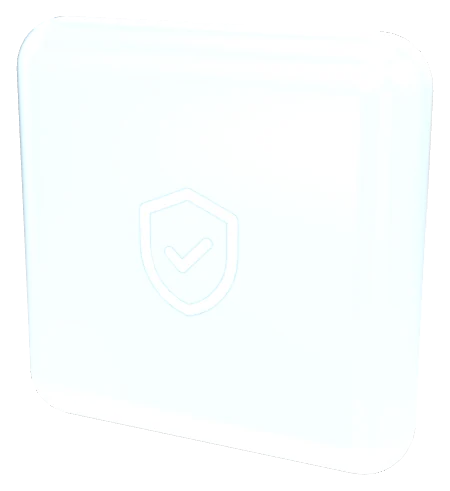
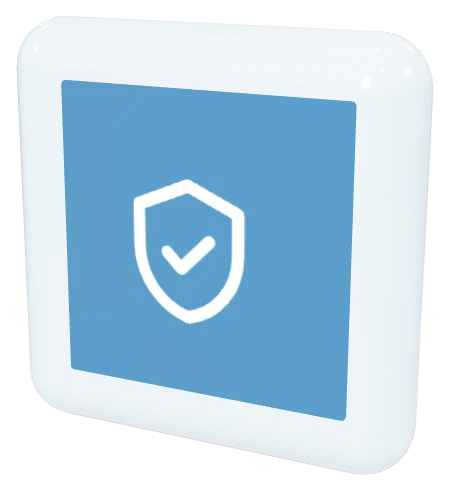
Phase 5: 3D render library in public/3d
scripts/render-3d.mjs drives /dev/render to render every named scene
(src/components/three/scenes.ts) as transparent WebP at 2x: the hero
poster, six products, eight glass icon tiles, the glass bar-chart
cluster, a small platform scene per page banner (about, services,
products, clients, contact, 404) and the CTA cluster. Render3D shows
them as images with pointer tilt and an optional float, so only the
hero runs WebGL.

diff --git a/src/components/three/scenes.ts b/src/components/three/scenes.ts
@@ -37,7 +37,8 @@ function miniStage(m: Materials, shared: Shared, items: [ProductName, number, nu
   const group = new THREE.Group();
   const platform = buildPlatform(m, shared, 2.4);
   group.add(platform.group);
-  for (const [name, x, z, plinthH, scale] of items) {
+  for (const [name, x, z, plinthH, s] of items) {
+    const scale = s * 1.45;
     const plinth = buildPlinth(m, 1.25 * scale + 0.2, 1.1 * scale + 0.2, plinthH);
     plinth.group.position.set(x, PLATFORM_TOP, z);
     const model = buildProduct(name, m);
@@ -51,7 +52,7 @@ function miniStage(m: Materials, shared: Shared, items: [ProductName, number, nu
 
 function withTiles(group: THREE.Group, m: Materials, tiles: [IconKey, number, number, number, boolean?][]) {
   for (const [icon, x, y, z, navy] of tiles) {
-    const tile = buildTile(m, icon, navy ? "navy" : "frost", 0.9);
+    const tile = buildTile(m, icon, navy ? "navy" : "frost", 1.15);
     tile.position.set(x, y, z);
     tile.rotation.set(0.2, x > 0 ? -0.45 : 0.45, x > 0 ? 0.08 : -0.08);
     group.add(tile);
@@ -96,7 +97,7 @@ export function buildNamedScene(name: string, m: Materials, shared: Shared): THR
   }
   switch (name) {
     case "banner-about":
-      return withTiles(miniStage(m, shared, [["gear", -0.7, -0.3, 0.45, 0.8], ["rack", 0.8, -0.5, 0.25, 0.75]]), m, [["shield", -2.4, 2.4, 0.6]]);
+      return withTiles(miniStage(m, shared, [["gear", -0.85, -0.2, 0.45, 0.75], ["rack", 0.9, -0.5, 0.25, 0.7]]), m, [["shield", -2.4, 2.4, 0.6]]);
     case "banner-services":
       return withTiles(miniStage(m, shared, [["laptop", -0.8, 0.5, 0.3, 0.65], ["cctv", 0.9, 0.2, 0.55, 0.7], ["gear", 0.1, -0.9, 0.2, 0.6]]), m, [["wrench", 2.5, 2.4, -0.2, true]]);
     case "banner-products":
@@ -105,12 +106,8 @@ export function buildNamedScene(name: string, m: Materials, shared: Shared): THR
       return withTiles(miniStage(m, shared, [["chair", -0.6, -0.2, 0.35, 0.75], ["laptop", 0.9, 0.5, 0.25, 0.6]]), m, [["network", 2.4, 2.5, -0.3, true], ["shield", -2.4, 2.2, 0.4]]);
     case "banner-contact":
       return withTiles(miniStage(m, shared, [["laptop", -0.4, 0.2, 0.35, 0.75]]), m, [["network", 2.0, 2.2, 0, true], ["camera", -2.1, 2.5, -0.2]]);
-    case "banner-404": {
-      const g = miniStage(m, shared, []);
-      const s = buildSphere(m, 0.7);
-      s.position.set(0, PLATFORM_TOP + 0.9, 0);
-      return withTiles(g.add(s), m, [["gear", 2.0, 2.4, -0.2, true], ["wrench", -2.0, 2.0, 0.3]]);
-    }
+    case "banner-404":
+      return withTiles(miniStage(m, shared, [["gear", 0, -0.2, 0.3, 0.9]]), m, [["wrench", 2.2, 2.6, -0.2, true], ["shield", -2.2, 2.2, 0.3]]);
   }
   throw new Error(`Unknown scene: ${name}`);
 }

diff --git a/src/components/three/render-3d.tsx b/src/components/three/render-3d.tsx
@@ -1,0 +1,53 @@
+"use client";
+
+import Image from "next/image";
+import { useEffect, useRef } from "react";
+import { bindTilt } from "@/lib/motion";
+import { cn } from "@/lib/utils";
+import { RENDERS, type RenderName } from "./renders";
+
+/**
+ * One of the offline 3D renders in public/3d/ (scripts/render-3d.mjs), shown
+ * as an image: it tilts toward the pointer (fine pointers) and can float.
+ * Only the hero runs live WebGL, so each page has at most one context.
+ */
+export function Render3D({
+  name,
+  alt = "",
+  sizes = "(max-width: 1024px) 80vw, 40vw",
+  float = false,
+  tilt = 8,
+  priority = false,
+  className,
+  imgClassName,
+}: {
+  /** A render in public/3d/, e.g. "banner-about". */
+  name: RenderName;
+  alt?: string;
+  sizes?: string;
+  float?: boolean;
+  tilt?: number;
+  priority?: boolean;
+  className?: string;
+  imgClassName?: string;
+}) {
+  const ref = useRef<HTMLDivElement>(null);
+  const [width, height] = RENDERS[name];
+  useEffect(() => (ref.current && tilt > 0 ? bindTilt(ref.current, tilt) : undefined), [tilt]);
+
+  return (
+    <div ref={ref} className={cn("tilt", className)}>
+      <Image
+        src={`/3d/${name}.webp`}
+        alt={alt}
+        width={width}
+        height={height}
+        sizes={sizes}
+        preload={priority}
+        loading={priority ? "eager" : "lazy"}
+        className={cn("h-auto w-full select-none", float && "bob", imgClassName)}
+        draggable={false}
+      />
+    </div>
+  );
+}

diff --git a/src/components/three/renders.ts b/src/components/three/renders.ts
@@ -1,0 +1,31 @@
+/**
+ * Pixel sizes (2x) of the renders in public/3d/, produced by
+ * scripts/render-3d.mjs. Update after re-rendering if framing changes.
+ */
+export const RENDERS = {
+  "hero-poster": [1920, 1760],
+  chart: [849, 600],
+  cta: [738, 694],
+  "banner-about": [792, 660],
+  "banner-services": [791, 579],
+  "banner-products": [776, 682],
+  "banner-clients": [787, 637],
+  "banner-contact": [784, 668],
+  "banner-404": [770, 670],
+  "product-rack": [656, 798],
+  "product-cctv": [700, 704],
+  "product-laptop": [780, 477],
+  "product-printer": [779, 448],
+  "product-chair": [671, 772],
+  "product-gear": [718, 643],
+  "tile-shield": [450, 491],
+  "tile-gear": [450, 491],
+  "tile-network": [450, 491],
+  "tile-camera": [450, 491],
+  "tile-printer": [450, 491],
+  "tile-laptop": [450, 491],
+  "tile-chart": [450, 491],
+  "tile-wrench": [450, 491],
+} as const satisfies Record<string, readonly [number, number]>;
+
+export type RenderName = keyof typeof RENDERS;

diff --git a/src/components/three/materials.ts b/src/components/three/materials.ts
@@ -100,7 +100,7 @@ export function createMaterials(quality: Quality) {
     glass: glass("#e8f3fb", 0.08),
     /** Floating tiles and spheres sit over the page, not the scene, so they
      *  use fake glass: transmission over a transparent canvas reads milky. */
-    frost: glass("#cfe5f6", 0.08, 0.22, true),
+    frost: glass("#8fc2e6", 0.06, 0.34, true),
     bubble: glass("#d6ebf9", 0.04, 0.2, true),
     /** Bar-chart columns, tinted sky. */
     glassSky: glass("#9fd0ee", 0.06, 0.45),

diff --git a/docs/REDESIGN-TASKS.md b/docs/REDESIGN-TASKS.md
@@ -9,7 +9,7 @@ style only; all text comes from `src/lib/content.ts` and `src/lib/site.ts`.
 - [x] Phase 2: one Button component everywhere
 - [x] Phase 3: notched navbar + floating pill + mobile panel
 - [x] Phase 4: hero (inset dark panel, live 3D platform scene, poster)
-- [ ] Phase 5: 3D asset library + scripts/render-3d.mjs -> public/3d/
+- [x] Phase 5: 3D asset library + scripts/render-3d.mjs -> public/3d/
 - [ ] Phase 6: home sections
 - [ ] Phase 7: inner pages (About, Services, Products, Clients, Contact, 404)
 - [ ] Phase 8: motion system pass
